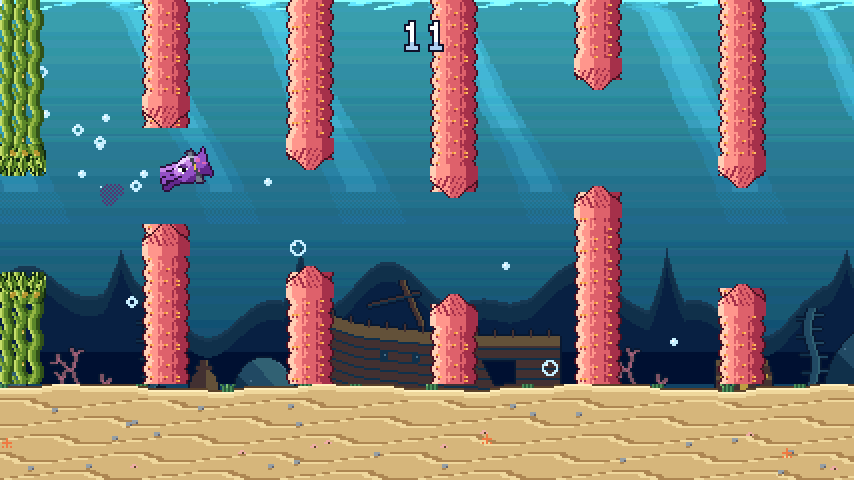
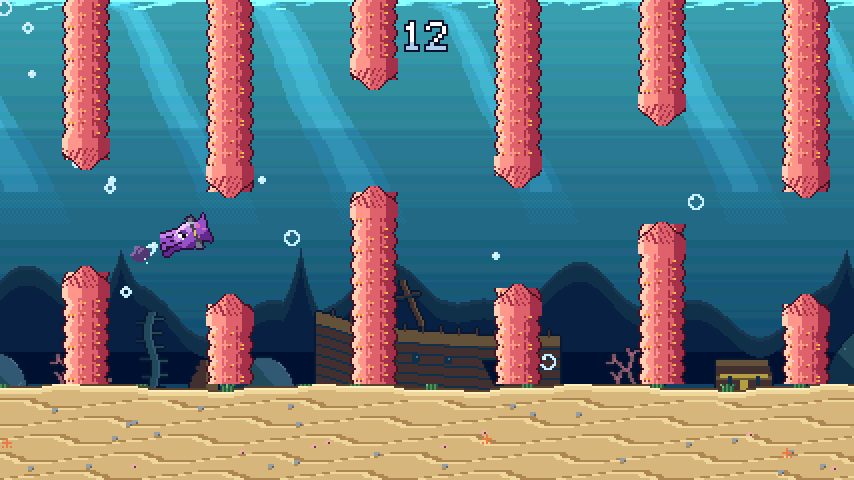
Leady Squid: the first obstacle as close at every width (no long run-up on a wide screen)
The owner's phone test: on a very wide screen the run-up to the first obstacle was long,
because it waited just off the REAL screen edge. Now it is at x 320 at every width, 224 px
ahead of the squid as at 4:3; the next ones are still generated up to the real edge, with
the same spacing, gaps and physics (the score comes on the same frames at every width).
- a wide screen shows the first gates when the run starts; before it (the title, waiting
  for the first flap) the gates on the screen are not drawn: the title stays clear and the
  first flap re-rolls the course anyway. At 320 none is on the screen then: 320 is
  byte-identical (pictures and state hashes of 7 scenarios compared before/after);
- tests/test_physics.c: the first obstacle's distance from the squid at the start is the
  same at 320, 427, 520 and 560, the course reaches past the real edge, same scores;
- tests/test_caps.c: at a wide width, the gates hidden before the start have no cap and
  no stalk pixel (the caps/stalk checks pass at 320, 427 and 520);
- screenshots: play, game over and 4-player race at 427 and 520 re-rendered (the titles
  are unchanged).

diff --git a/games/leadysquid/tests/test_physics.c b/games/leadysquid/tests/test_physics.c
@@ -273,10 +273,11 @@ static void test_death_and_determinism(void)
     CHECK(h[0] == h[1], "two identical runs: %08x %08x", h[0], h[1]);
 }
 
-/* Widescreen: the same course at every width (the same gaps and themes, one spacing apart, from a first obstacle
- * just off the real screen edge); a pilot through it scores the same, its first obstacle d frames later. */
+/* Widescreen: the same course at every width (the same gaps and themes, one spacing apart), its first obstacle at the
+ * same distance from the squid when the run starts (no longer run-up on a wide screen; the next ones are generated up
+ * to the real edge); a pilot through it scores the same on the same frames. */
 #define WS_FRAMES (72 * 40)
-static void ws_run(int width, int score[WS_FRAMES], int gaps[64], int *first_x)
+static void ws_run(int width, int score[WS_FRAMES], int gaps[64], int *first_dist, int *ahead)
 {
     rs_host_set_width(width);
     rs_host_reset();
@@ -284,8 +285,11 @@ static void ws_run(int width, int score[WS_FRAMES], int gaps[64], int *first_x)
     world_init(&w, 1, 4242, 0);
     w.fixed_seed = 1;
     int flap[MAX_PLAYERS] = {1, 0}, none[MAX_PLAYERS] = {0, 0};
+    int sx0 = world_scroll_px(&w);                                    /* the scroll when the start flap comes */
     world_step(&w, flap);
-    *first_x = w.ob[0].x;
+    int first_x = w.ob[0].x;
+    *first_dist = first_x - (sx0 + w.sq[0].x);                         /* the first obstacle, ahead of the squid */
+    *ahead = w.ob[w.nob - 1].x - (world_scroll_px(&w) + width);        /* the course reaches past the real edge */
     for (int i = 0; i < 64; i++) gaps[i] = -1;
     for (int f = 0; f < WS_FRAMES; f++) {
         const obstacle *o = world_next_obstacle(&w, 0);
@@ -295,7 +299,7 @@ static void ws_run(int width, int score[WS_FRAMES], int gaps[64], int *first_x)
         world_step(&w, none);
         for (int i = 0; i < w.nob; i++)
             if (w.ob[i].index < 64) {
-                int v = w.ob[i].gap_top * 16 + w.ob[i].theme + 4 * (w.ob[i].x - *first_x == w.ob[i].index * SPACING);
+                int v = w.ob[i].gap_top * 16 + w.ob[i].theme + 4 * (w.ob[i].x - first_x == w.ob[i].index * SPACING);
                 if (gaps[w.ob[i].index] >= 0 && gaps[w.ob[i].index] != v) gaps[w.ob[i].index] = -2;
                 else gaps[w.ob[i].index] = v;
             }
@@ -307,19 +311,21 @@ static void test_widescreen(void)
 {
     printf("widescreen\n");
     static int s320[WS_FRAMES], sw[WS_FRAMES];
-    int g320[64], gw[64], fx320, fxw;
-    ws_run(RS_SCREEN_W, s320, g320, &fx320);
-    CHECK(fx320 == FIRST_OBST_X, "320 columns: the first obstacle at x %d", fx320);
+    int g320[64], gw[64], d320, dw, a320, aw;
+    ws_run(RS_SCREEN_W, s320, g320, &d320, &a320);
+    CHECK(d320 == FIRST_OBST_X - SQUID_X, "320 columns: the first obstacle %d px ahead of the squid", d320);
+    CHECK(a320 >= 0, "320 columns: the course reaches %d px past the edge", a320);
     static const int widths[] = {427, 520, 560};
     for (int k = 0; k < 3; k++) {
-        ws_run(widths[k], sw, gw, &fxw);
-        int d = fxw - fx320, same_course = !memcmp(g320, gw, 32 * sizeof *gw) && g320[31] >= 0, same_score = 1;
-        for (int f = 0; f + d < WS_FRAMES; f++) same_score &= s320[f] == sw[f + d] && s320[f] >= 0;
-        CHECK(fxw >= FIRST_OBST_X + widths[k] - RS_SCREEN_W && fxw % 8 == 0 && fxw - widths[k] < 8,
-              "%d columns: the first obstacle just off the real edge, x %d", widths[k], fxw);
+        ws_run(widths[k], sw, gw, &dw, &aw);
+        int same_course = !memcmp(g320, gw, 32 * sizeof *gw) && g320[31] >= 0, same_score = 1;
+        for (int f = 0; f < WS_FRAMES; f++) same_score &= s320[f] == sw[f] && s320[f] >= 0;
+        CHECK(dw == d320, "%d columns: the first obstacle %d px ahead of the squid at the start (320: %d)", widths[k],
+              dw, d320);
+        CHECK(aw >= 0, "%d columns: the course reaches %d px past the real edge", widths[k], aw);
         CHECK(same_course, "%d columns: the same course (32 obstacles: gaps, themes, one spacing apart)", widths[k]);
-        CHECK(same_score, "%d columns: the pilot scores the same, %d frames later (%d points)", widths[k], d,
-              s320[WS_FRAMES - 1 - d]);
+        CHECK(same_score, "%d columns: the pilot scores the same on the same frames (%d points)", widths[k],
+              s320[WS_FRAMES - 1]);
     }
     rs_host_set_width(RS_SCREEN_W);
     rs_host_reset();

diff --git a/games/leadysquid/tests/test_caps.c b/games/leadysquid/tests/test_caps.c
@@ -17,7 +17,8 @@
  * Every gap value of the first theme (--opt skip=N) and every scroll phase must be covered.
  *
  *   test_caps [--runs N] [--seed S] [--width N] [--opt key=value]...   (--opt skip=10 for coral, ...)
- * Widescreen: --width N (or the environment variable RS_WIDTH) checks every obstacle on the wider screen.
+ * Widescreen: --width N (or the environment variable RS_WIDTH) checks every obstacle on the wider screen; before a run
+ * starts, the obstacles already on it must be entirely hidden (no cap, no column body: the title stays clear).
  */
 #include "ls.h"
 #include "rs_host.h"
@@ -33,7 +34,7 @@ static int SW = RS_SCREEN_W;                     /* the screen width (widescreen
 
 static uint16_t with_bg2[RS_SCREEN_W_MAX * SH], without_bg2[RS_SCREEN_W_MAX * SH];
 static uint8_t body[SH][RS_SCREEN_W_MAX];        /* 1 = a BG2 pixel shows here */
-static int fails, fail_courses, checked_obstacles, checked_frames;
+static int fails, fail_courses, checked_obstacles, checked_frames, hidden_checked;
 static uint32_t last_fail_seed;
 static uint8_t gap_seen[THEMES][PLAY_H], phase_seen[8];
 static uint32_t rng_state = 12345;
@@ -116,6 +117,18 @@ static void check_frame(const world *w, int frame)
         int ox = o->x - sx, g = o->gap_top;
         int x0 = ox < 0 ? 0 : ox, x1 = ox + OBST_W > SW ? SW : ox + OBST_W;
         if (x1 <= x0) continue;
+        /* widescreen: before the run starts, the obstacles on the screen are not shown at all (draw.c; the first flap
+         * re-rolls the course): no cap, no column body in their columns. At 4:3 none is on the screen then. */
+        if (!w->started) {
+            int n = 0;
+            for (int y = 0; y < PLAY_H; y++)
+                for (int x = x0; x < x1; x++) n += body[y][x];
+            if (n || cap_in_oam(SPR_CAP_KELP + o->theme * 2, ox, g - CAP_H) ||
+                cap_in_oam(SPR_CAP_KELP + o->theme * 2 + 1, ox, g + GAP))
+                fail(frame, w->seed, o, ox, "an obstacle shown before the run starts (the title must stay clear)");
+            hidden_checked++;
+            continue;
+        }
         checked_obstacles++;
         gap_seen[o->theme][g] = 1;
         /* the caps (sprites) at the gap's exact pixel height */
@@ -237,6 +250,11 @@ int main(int argc, char **argv)
            "%d/8 scroll phases\n",
            fails ? "FAIL" : "ok  ", names[first_theme < 0 ? 0 : first_theme], done, checked_frames, checked_obstacles,
            cover, phases);
+    if (SW > RS_SCREEN_W) {   /* widescreen: the obstacles on the screen before a run starts are hidden (draw.c) */
+        printf("  %s obstacles hidden before the start: %d views on the title\n", hidden_checked ? "ok  " : "FAIL",
+               hidden_checked);
+        if (!hidden_checked) fails++;
+    }
     if (fails) printf("  %d failed checks, on %d of the %d courses (runs) played\n", fails, fail_courses, done);
     if (first_theme >= 0) {
         int n = 0;

diff --git a/games/leadysquid/src/draw.c b/games/leadysquid/src/draw.c
@@ -166,6 +166,15 @@ void draw_reset_course(const world *w)
     cleared_col = world_scroll_px(w) / 8 > 1 ? world_scroll_px(w) / 8 - 1 : 0;
 }
 
+/* Widescreen: the first obstacle is at the same distance from the squid at every width (world.c), so a wide screen
+ * already shows the first gates when the run starts. Before it starts (the title, or waiting for the first flap) the
+ * obstacles on the screen are not shown: the title stays clear, and the first flap re-rolls the course anyway (a new
+ * seed from the start frame). At 4:3 none is on the screen then (the first one is just off it): nothing changes. */
+static int obstacle_hidden(const world *w, const obstacle *o)
+{
+    return !w->started && o->x < world_scroll_px(w) + rs_screen_width();
+}
+
 static void course_tiles(const world *w)
 {
     /* The course is drawn once per obstacle, but the first flap re-rolls it (a new seed from the
@@ -180,6 +189,7 @@ static void course_tiles(const world *w)
     for (int i = 0; i < w->nob; i++) {
         const obstacle *o = &w->ob[i];
         if (o->index <= drawn_index || o->x > sx + rs_screen_width() + 64) continue;
+        if (obstacle_hidden(w, o)) break;            /* in x order: drawn from the first flap on */
         put_column_part(o, 0, o->gap_top / 8);                              /* top: surface .. gap */
         put_column_part(o, (o->gap_top + GAP + 7) / 8, PLAY_H / 8);          /* bottom: gap .. seabed */
         drawn_index = o->index;
@@ -324,7 +334,7 @@ static void draw_caps(const world *w)
     int sx = world_scroll_px(w);
     for (int i = 0; i < w->nob; i++) {
         int x = w->ob[i].x - sx;
-        if (x <= -OBST_W || x >= rs_screen_right()) continue;      /* on screen only (wide: 3 themes may be ahead) */
+        if (x <= -OBST_W || x >= rs_screen_right() || obstacle_hidden(w, &w->ob[i])) continue;   /* on screen only */
         int th = w->ob[i].theme, k = th & 1;
         if (cap_theme[k] != th) {
             rs_pal_load(RS_PAL_OBJ(OBJ_CAPS + k), ls_cap_pals[th], 16);
@@ -334,7 +344,7 @@ static void draw_caps(const world *w)
     for (int i = 0; i < w->nob; i++) {
         const obstacle *o = &w->ob[i];
         int x = o->x - sx;
-        if (x <= -OBST_W || x >= rs_screen_right()) continue;
+        if (x <= -OBST_W || x >= rs_screen_right() || obstacle_hidden(w, o)) continue;
         spr(SPR_CAP_KELP + o->theme * 2, x, o->gap_top - CAP_H, 2, OBJ_CAPS + (o->theme & 1));
         spr(SPR_CAP_KELP + o->theme * 2 + 1, x, o->gap_top + GAP, 2, OBJ_CAPS + (o->theme & 1));
     }

diff --git a/games/leadysquid/src/world.c b/games/leadysquid/src/world.c
@@ -17,16 +17,16 @@ int squid_start_y(int players, int p)
     return SQUID_START_Y + (players <= 2 ? 0 : dy[p & 3]);
 }
 
-/* Widescreen (DESIGN.md "Widescreen"): the course is world content, revealed wider. The first obstacle waits just off
- * the REAL right edge of the screen (320 at 4:3, on the 8-px grid); from there the course is the same at every width:
- * the same gaps (the RNG is drawn per obstacle, in order), the same spacing, the same physics. Each obstacle is placed
- * one spacing after the previous one, so a state saved at one width goes on with the same course at another. */
-static int first_obstacle_x(void) { return FIRST_OBST_X + ((rs_screen_width() - RS_SCREEN_W + 7) & ~7); }
-
+/* Widescreen (DESIGN.md "Widescreen"): the course is world content, revealed wider. The first obstacle is at
+ * FIRST_OBST_X at every width, the same distance from the squid as at 4:3 (a wide screen already shows the first
+ * gates when the run starts: draw.c keeps them off the title); the next ones are generated up to the REAL right edge
+ * and come into view there. The course is the same at every width: the same gaps (the RNG is drawn per obstacle, in
+ * order), the same spacing, the same physics. Each obstacle is placed one spacing after the previous one, so a state
+ * saved at one width goes on with the same course at another. */
 static void add_obstacle(world *w)
 {
     obstacle o = obstacle_make(&w->rng, w->next_index);
-    o.x = w->nob ? w->ob[w->nob - 1].x + SPACING : first_obstacle_x();
+    o.x = w->nob ? w->ob[w->nob - 1].x + SPACING : FIRST_OBST_X;
     w->ob[w->nob++] = o;
     w->next_index++;
 }

diff --git a/games/leadysquid/DESIGN.md b/games/leadysquid/DESIGN.md
@@ -127,11 +127,14 @@ The game opts in (`max_width` = 560, `WIDESCREEN_leadysquid = 1`): 320 (4:3) is 
 (16:9) or 520 (phones) **the world is simply revealed wider**, to the right.
 - The stage origin stays 0: the squids swim at the same screen x (96, P2-P4 behind), the screen shows further ahead.
   Seeing further makes it a little easier; the owner accepts it (no compensation).
-- **The course is world content.** Obstacles are generated up to two spacings past the REAL right edge, so they come
-  into view at that edge; the first one waits just off it (x 320 at 4:3, 432 at 427, 520 at 520: on the 8-px grid).
-  From there the course is identical at every width: the same gaps and themes (the RNG is drawn per obstacle, in
-  order), the same spacing (each obstacle one spacing after the previous), the same physics and scoring. Only the
-  run-up to the first obstacle is longer (by the extra width, at 1 px per frame). tests/test_physics.c checks it.
+- **The course is world content.** The first obstacle is at the same distance from the squid at every width (x 320,
+  224 px ahead: the run-up of 4:3, not one growing with the width, which the owner's phone test found too long), so a
+  wide screen already shows the first gates when the run starts. Before the start (the title, waiting for the first
+  flap) the gates on the screen are not drawn: the title stays clear, and the first flap re-rolls the course anyway
+  (a seed from the start frame); they are there from the run's first frame, nothing pops in later. The next ones are
+  generated up to two spacings past the REAL right edge and come into view there. The course is identical at every
+  width: the same gaps and themes (the RNG is drawn per obstacle, in order), the same spacing (each obstacle one
+  spacing after the previous), the same physics and scoring, on the same frames. tests/test_physics.c checks it.
 - The scenery maps are 128 tiles wide on a wide screen (64 at 320): the seabed, the mid-ground and the reef panoramas
   continue with their mirror image (the same tiles h-flipped: no VRAM, seamless joins), so nothing repeats on screen;
   the additive rays are copied (they slant). The course columns use the wider map too.
